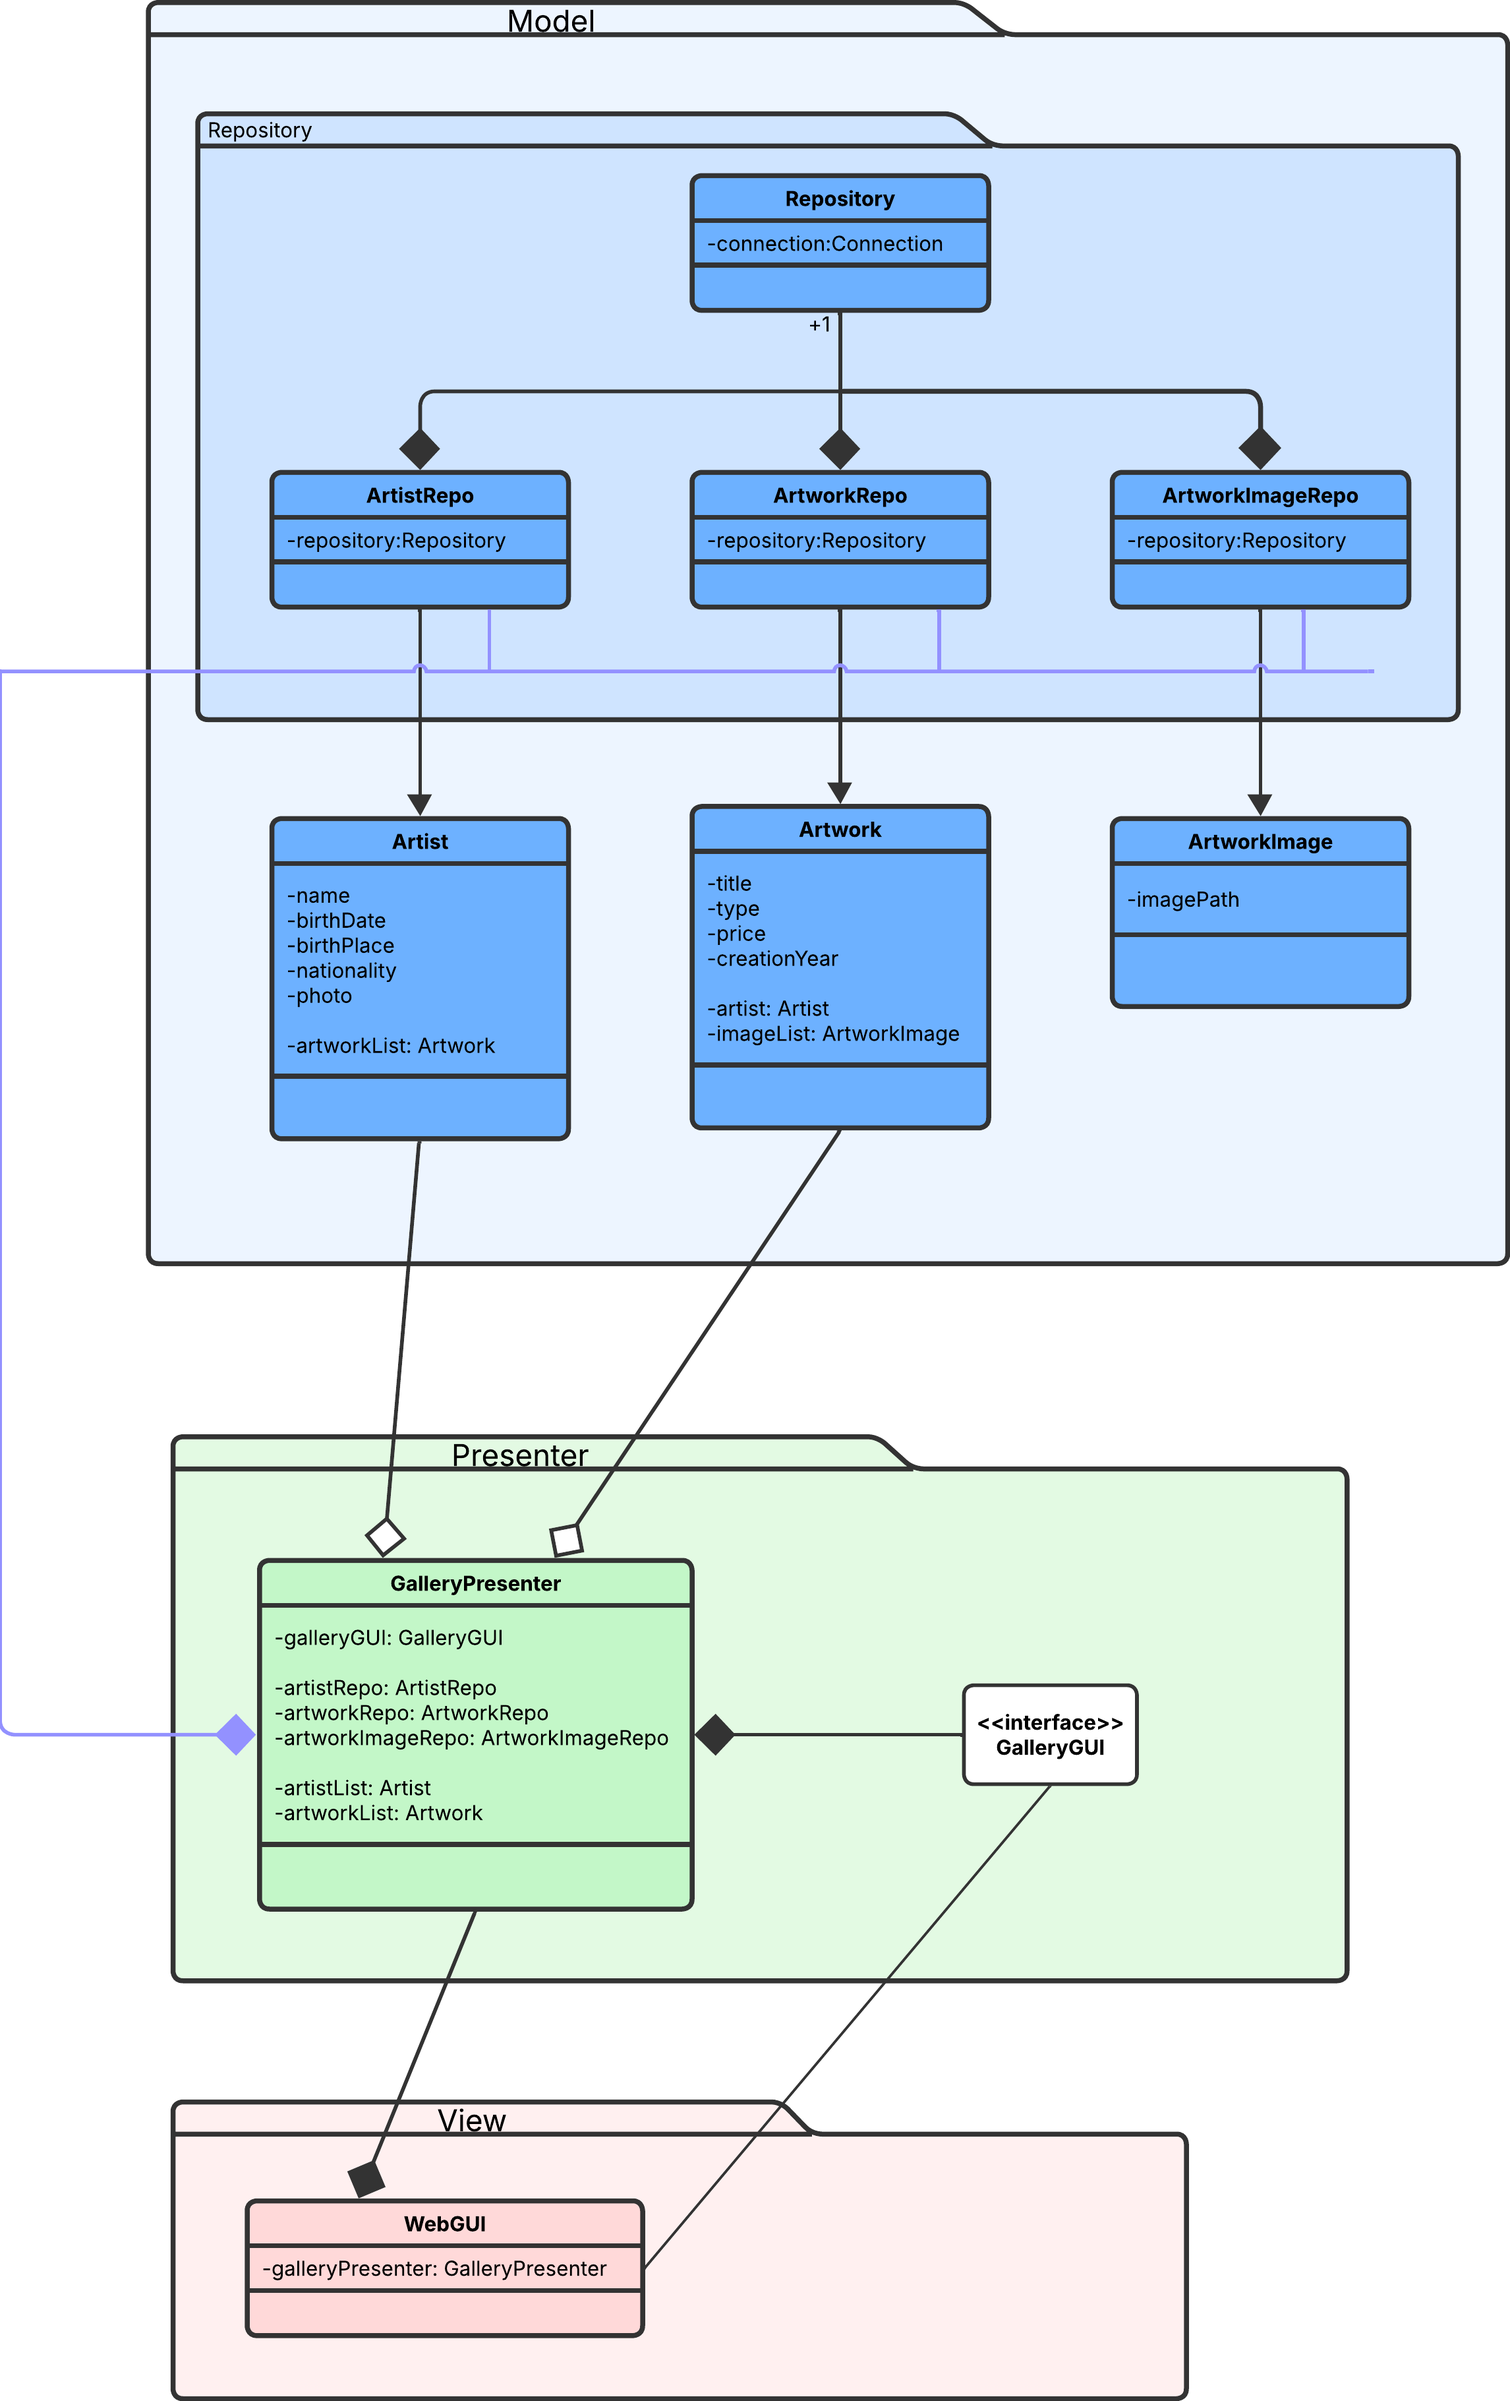
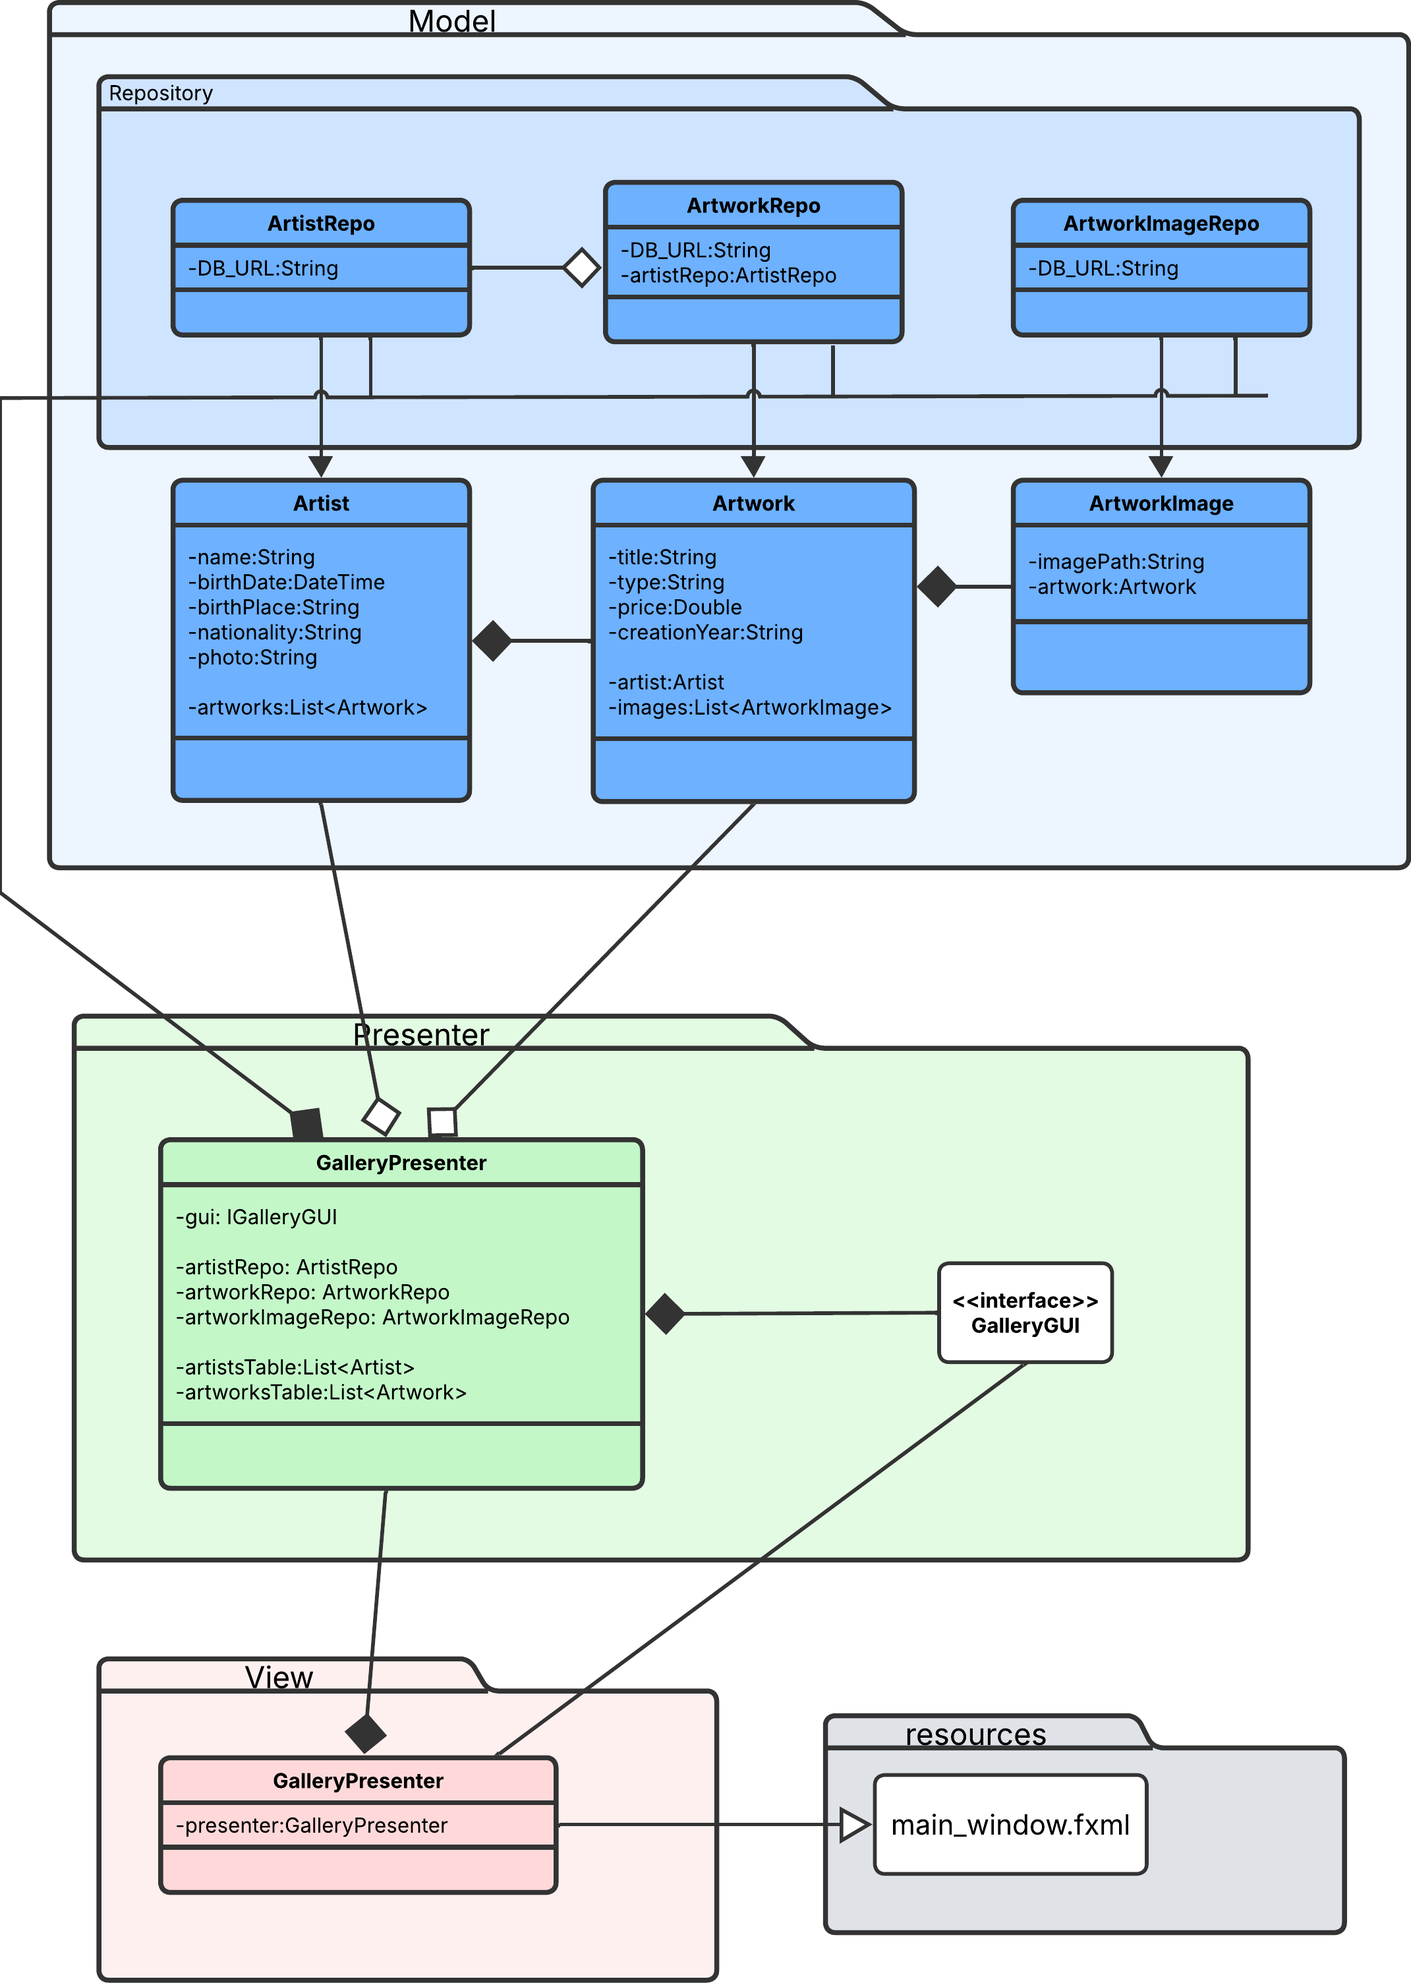
Add use case, ER, package and sequence diagrams and UI screenshots

diff --git a/GalleryApp/src/main/java/Presenter/GalleryPresenter.java b/GalleryApp/src/main/java/Presenter/GalleryPresenter.java
@@ -17,7 +17,9 @@ public class GalleryPresenter {
     private final ArtistRepo artistRepo;
     private final ArtworkRepo artworkRepo;
     private final ArtworkImageRepo artworkImageRepo;
+
     private final IGalleryGUI gui;
+
     private final ObservableList<Artist> artistsTable;
     private final ObservableList<Artwork> artworksTable;
 
@@ -261,7 +263,7 @@ public class GalleryPresenter {
             artistsTable.setAll(artistRepo.getAllArtists());
             gui.displayArtists(artistsTable);
         } catch (SQLException e) {
-            gui.showError("Eroare la actualizarea listei artiștilor: " + e.getMessage());
+            gui.showError("Eror " + e.getMessage());
         }
     }
 
@@ -270,21 +272,21 @@ public class GalleryPresenter {
             artworksTable.setAll(artworkRepo.getAllArtworks());
             gui.displayArtworks(artworksTable);
         } catch (SQLException e) {
-            gui.showError("Eroare la actualizarea listei operelor: " + e.getMessage());
+            gui.showError("Error " + e.getMessage());
         }
     }
 
     private void validateNotEmpty(String value, String fieldName) {
         if (value == null || value.trim().isEmpty()) {
-            gui.showError(fieldName + " este obligatoriu!");
-            throw new IllegalArgumentException(fieldName + " nu poate fi null sau gol!");
+            gui.showError(fieldName + " is mandatory!");
+            throw new IllegalArgumentException(fieldName + " cannot be null or empty!");
         }
     }
 
     private void validateNonNegative(double value, String fieldName) {
         if (value < 0) {
-            gui.showError(fieldName + " nu poate fi negativ!");
-            throw new IllegalArgumentException(fieldName + " trebuie să fie >= 0!");
+            gui.showError(fieldName + " cannot be negative!");
+            throw new IllegalArgumentException(fieldName + " must be non-negative!");
         }
     }
 

diff --git a/GalleryApp/src/main/java/View/GalleryGUI.java b/GalleryApp/src/main/java/View/GalleryGUI.java
@@ -180,7 +180,7 @@ public class GalleryGUI implements IGalleryGUI, Initializable {
                 List<String> titles = presenter.getArtworksByArtist(cellData.getValue().getName());
                 return new SimpleStringProperty(String.join(", ", titles));
             } catch (Exception e) {
-                return new SimpleStringProperty("Eroare la incarcare");
+                return new SimpleStringProperty("Loading error");
             }
         });
     }
@@ -271,7 +271,7 @@ public class GalleryGUI implements IGalleryGUI, Initializable {
         if (confirmAction("Are you sure you want to add artist?")) {
             presenter.addArtist(name, birthDate, birthPlace, nationality, photoPath);
             clearArtistFields();
-            addArtistBox.setSelected(false); // Dezactivează după adăugare
+            addArtistBox.setSelected(false);
         }
     }
 

diff --git a/GalleryApp/src/main/java/Repository/ArtworkRepo.java b/GalleryApp/src/main/java/Repository/ArtworkRepo.java
@@ -125,10 +125,10 @@ public class ArtworkRepo {
             stmt.setString(1, "%" + title + "%");
             ResultSet rs = stmt.executeQuery();
             while (rs.next()) {
-                Artist artist = artistRepo.findArtistByName(rs.getString("artist_name")); // Corectat la artist_name
+                Artist artist = artistRepo.findArtistByName(rs.getString("artist_name"));
                 artworks.add(new Artwork(
                         rs.getString("title"),
-                        artist, // Folosim artistul complet din baza de date
+                        artist,
                         rs.getString("artwork_type"),
                         rs.getDouble("price"),
                         rs.getInt("creation_year")
